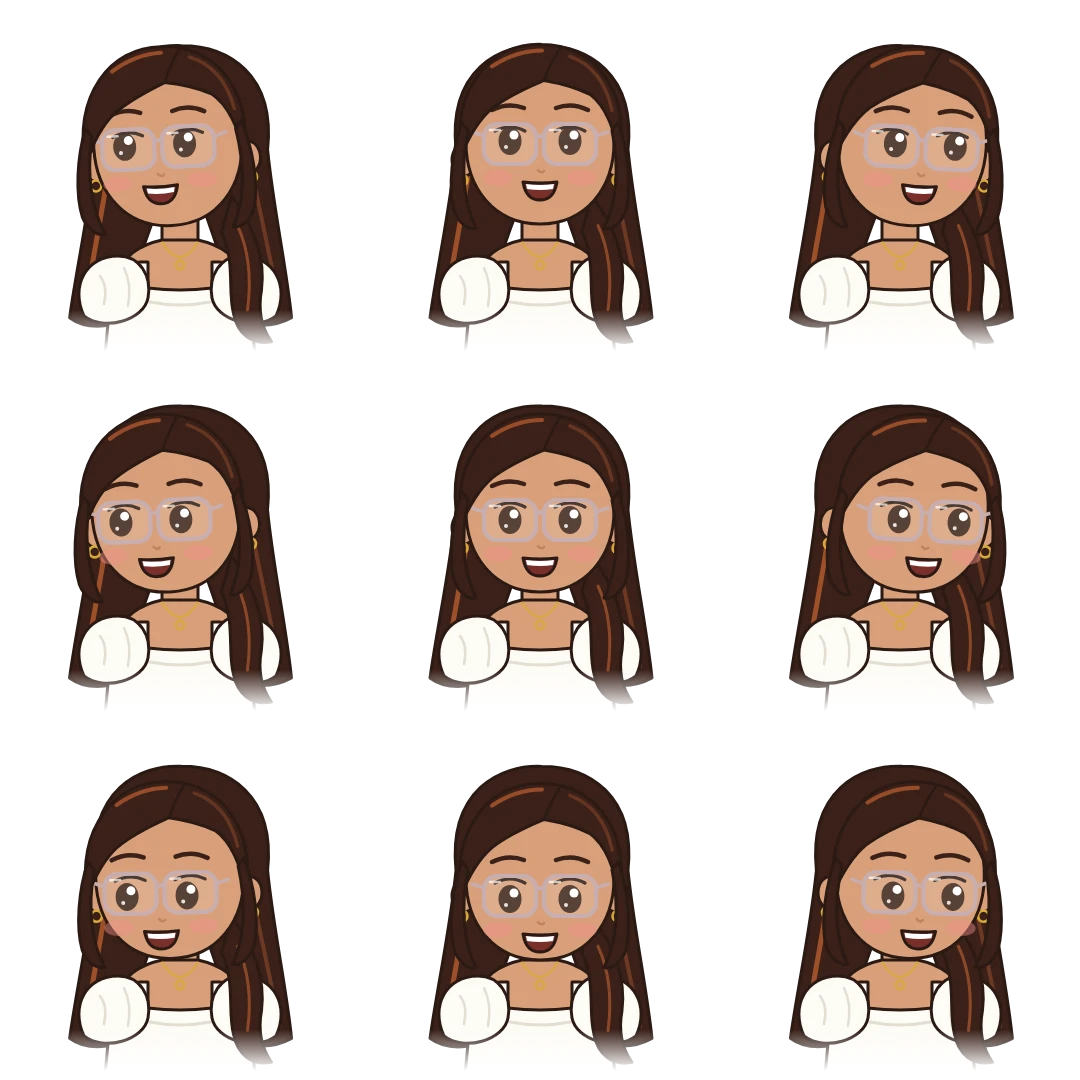
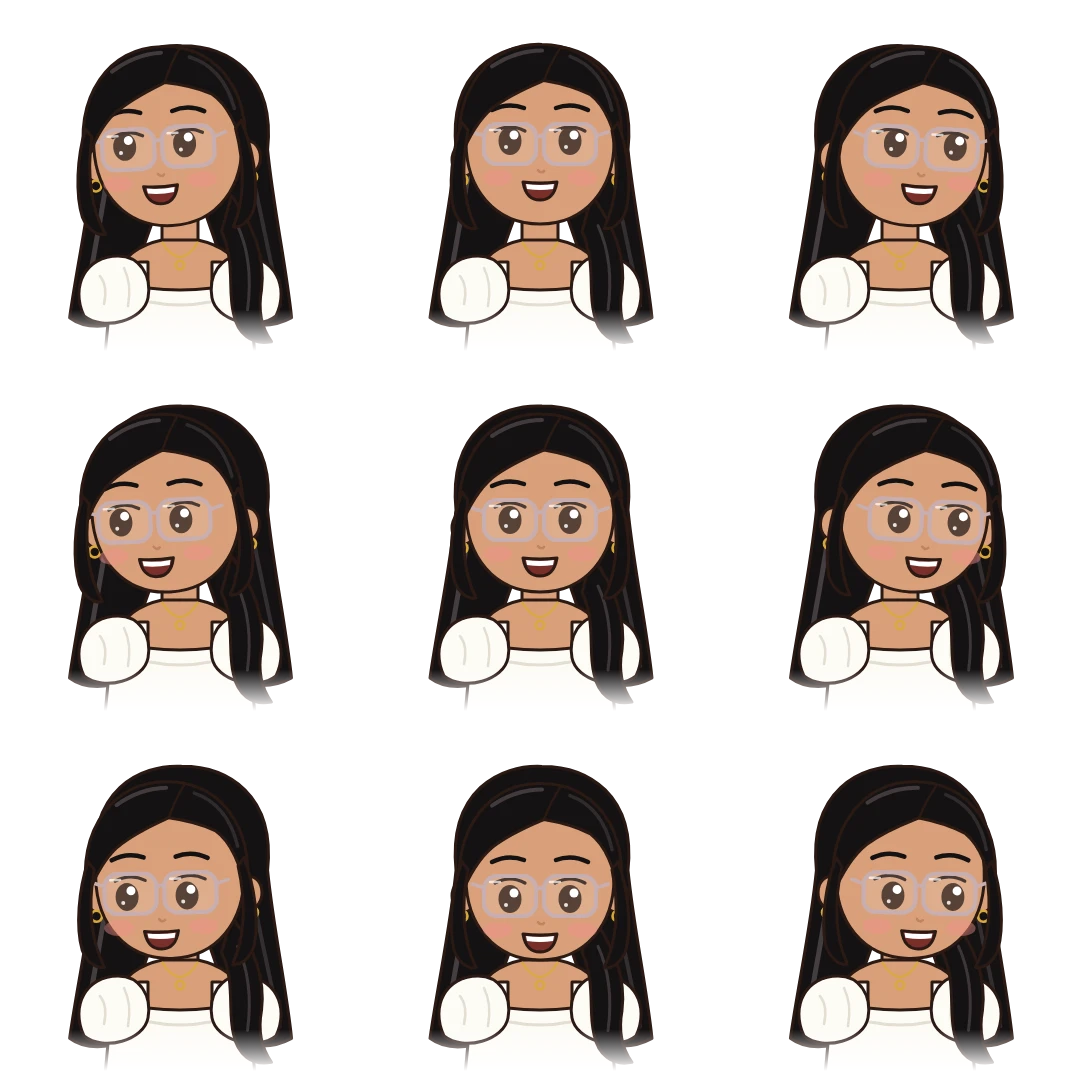
Make the mascot bigger and give it black hair
Claude-Session: https://claude.ai/code/session_01Q4JgD7SRpDynBcG1hsLAN2

diff --git a/src/js/mascot.js b/src/js/mascot.js
@@ -72,7 +72,8 @@ export function initMascot(button, { directions, reactions }) {
       const box = button.getBoundingClientRect();
       const dx = pointer.x - (box.left + box.width / 2);
       const dy = pointer.y - (box.top + box.height / 2);
-      if (Math.hypot(dx, dy) < DEAD_ZONE) {
+      // Scale the dead zone with the rendered size so a big mascot settles too.
+      if (Math.hypot(dx, dy) < Math.max(DEAD_ZONE, box.width / 2)) {
         sector = -1;
         setDirection('center');
         return;

diff --git a/src/styles/about.scss b/src/styles/about.scss
@@ -129,8 +129,8 @@ a {
   position: relative;
   display: block;
   flex-shrink: 0;
-  width: 140px;
-  height: 140px;
+  width: clamp(180px, 20vw, 260px);
+  height: clamp(180px, 20vw, 260px);
   padding: 0;
   border: 0;
   background: transparent;
@@ -140,8 +140,8 @@ a {
   -webkit-tap-highlight-color: transparent;
 
   @media (max-width: 760px) {
-    width: 104px;
-    height: 104px;
+    width: 140px;
+    height: 140px;
   }
 }
 
